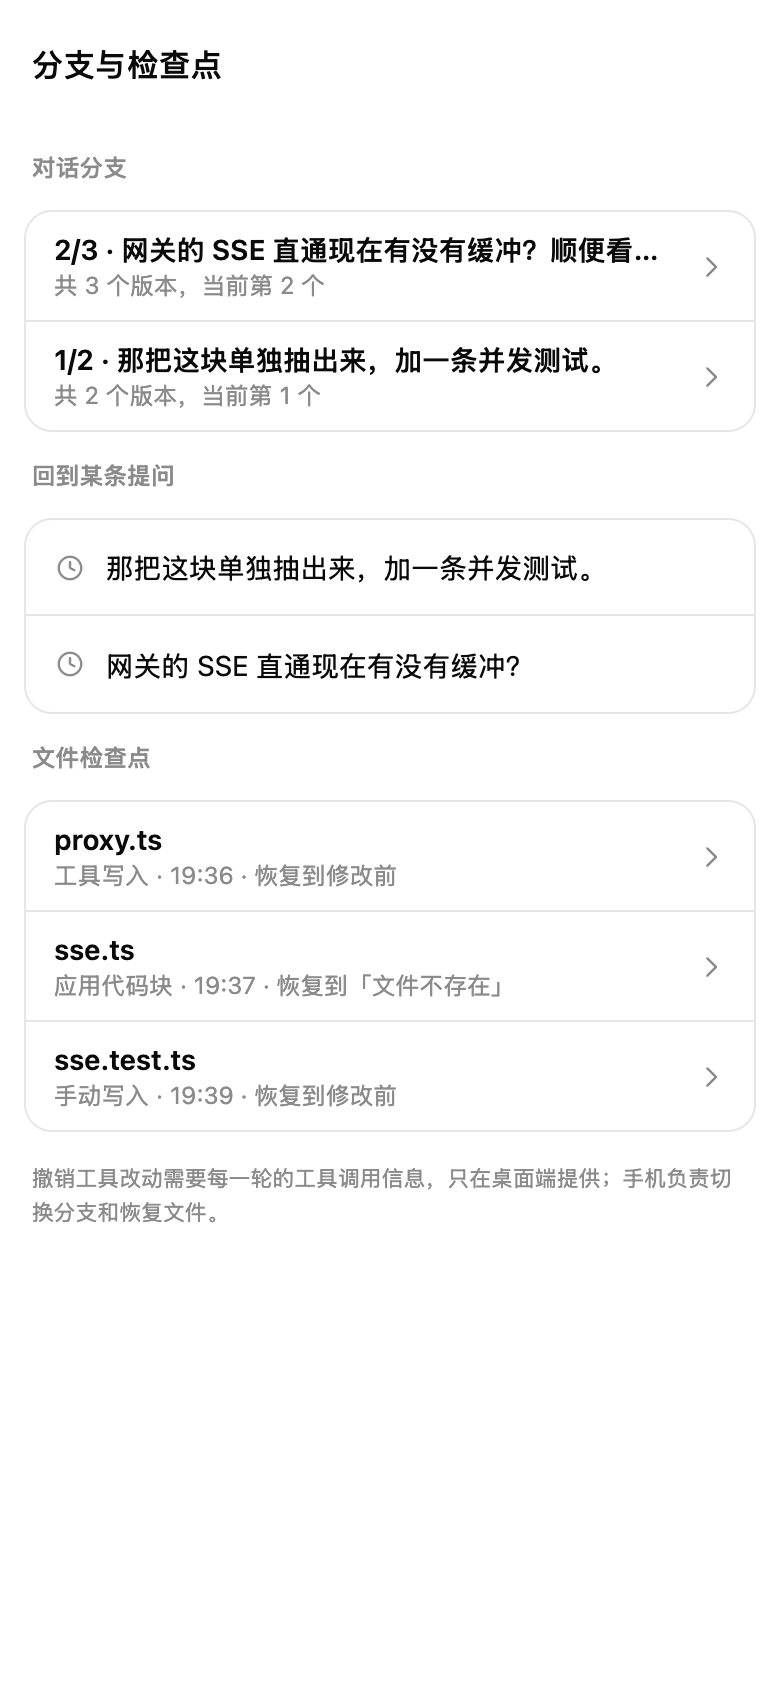
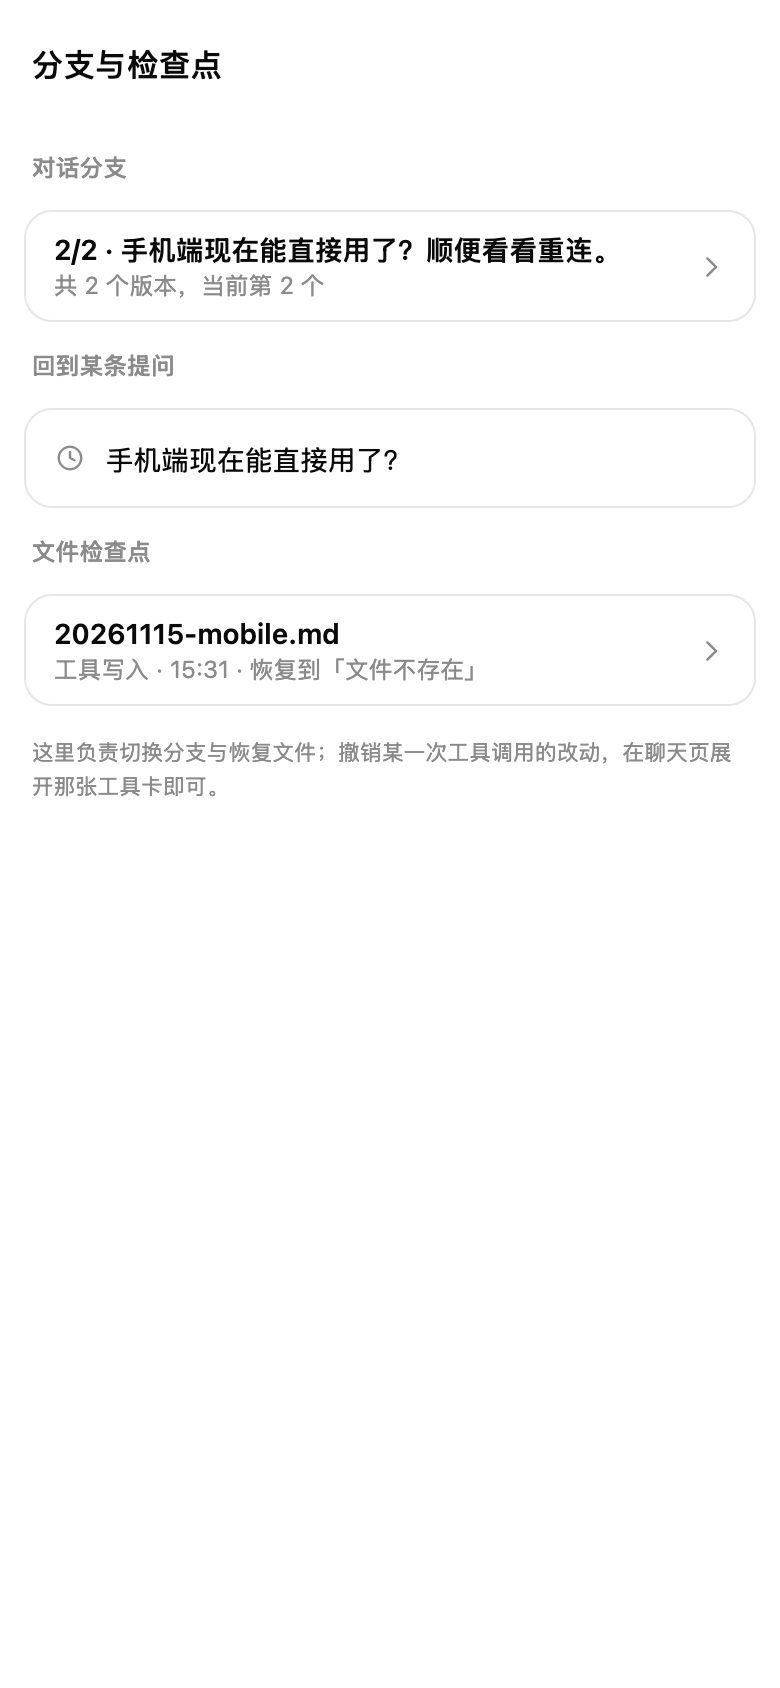
polish(mobile): 分支页页脚指向工具卡撤销，更新截图

diff --git a/apps/mobile/app/branches/[sessionId].tsx b/apps/mobile/app/branches/[sessionId].tsx
@@ -301,7 +301,7 @@ export default function BranchesScreen() {
           )}
 
           <Text style={{ color: theme.textWeak, fontSize: 11, lineHeight: 17, paddingHorizontal: 4 }}>
-            撤销工具改动需要每一轮的工具调用信息，只在桌面端提供；手机负责切换分支和恢复文件。
+            这里负责切换分支与恢复文件；撤销某一次工具调用的改动，在聊天页展开那张工具卡即可。
           </Text>
         </>
       )}

diff --git a/docs/plan/20261117-mobile.md b/docs/plan/20261117-mobile.md
@@ -496,6 +496,7 @@ gateway `bun test` **364/364**、`tsc` 与 iOS/web `expo export` 通过。
 | 任务 | 状态 | 证据 |
 |---|---|---|
 | 通知中心补齐 | ✅ | 新增 `toNotifications()`（数值 id/ISO 时间归一、去重、上限 100）；bootstrap、配对成功、打开通知页都会拉 `notification_list`；首次加载显示 spinner 避免假空态；点审批通知优先用 `requestId` 进审批页，否则进会话 |
+| 分支页文案纠偏 | ✅ | 撤销单次工具调用已由聊天页工具卡提供，页脚改为指向工具卡，不再声称「只在桌面端」 |
 
 **真链路全屏走查（13 屏）**：网关 + 桥 + 手机 Web 构建逐屏断言通过 —— 会话、聊天、
 会话设置、文件、资料库、记忆、记忆笔记、分支与检查点、通知、搜索、自动化、我、配对；
